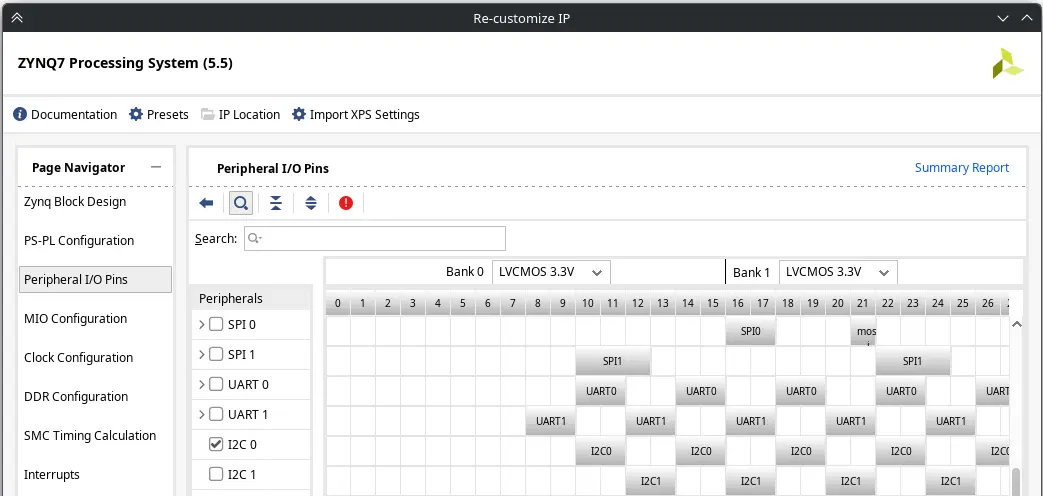
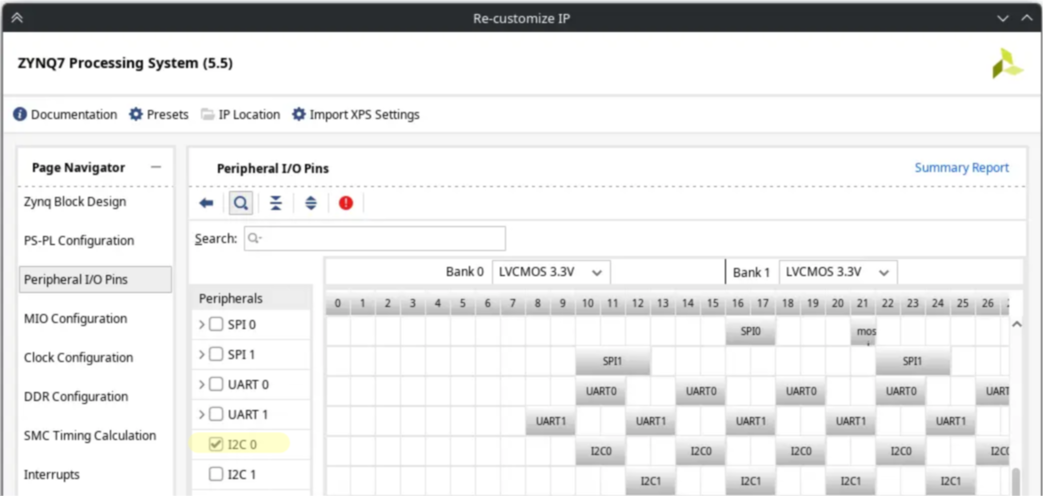
Post audio on FPGA guide

diff --git a/content/How to run audio on the Zybo Z7-20.md b/content/How to run audio on the Zybo Z7-20.md
@@ -1,31 +1,35 @@
 ---
-draft: "true"
+tags:
+  - hardware
+  - fpga
+  - audio
 ---
-A guide for anyone who would like to directly access the audio signals going in and out of an FPGA (specifically, the Zybo Z7-20). In this post, I will demonstrate how one might access the audio signals received and transmitted by the Zybo by implementing a simple audio bypass. In more general terms, we will take an audio signal received via the "Line In" ports of the Zybo, and send it out through the "HPH Out" port. This implementation would be a good starting point for any audio signal processing project that you might want to implement on an FPGA.
+
+A guide for anyone who would like to directly access the audio signals going in and out of an FPGA. In this post, I will demonstrate how one might access the audio signals received and transmitted by the Zybo Z7-20 by implementing a simple audio bypass. In more general terms, we will take an audio signal, received via the "Line In" ports of the Zybo, and send it out through the "HPH Out" port. This implementation would be a good starting point for any audio signal processing project that you might want to implement on an FPGA.
 
 (add diagram of bypass, and where audio processing would sit.)
 
 # Related works
-There was once a [blog post](https://setoti-hatenablog-com/entry/zybo_synthesizer_2_Audio_Codec) that explained how to access the audio signals in a manner similar to what I will describe in this post. Unfortuntately, it has since been taken down, and I can no longer find it on any internet archives. 
+There was once a [blog post](https://setoti-hatenablog-com/entry/zybo_synthesizer_2_Audio_Codec) that explained how to access the audio signals in a manner similar to what I describe in this post. Unfortuntately, it has since been taken down, and I can no longer find it on any internet archives. 
 
 More recently, Johan Steenkamp wrote a post on [Creating Sound on the Zybo board](https://c64onfpga.blogspot.com/2019/02/creating-sound-on-zybo-board.html). His approach avoids the use of any high-level C driver wrappers for the audio codec initialisation. It represents a more low-level approach to the one I will be using here. Given that I'm only using these wrappers to initialise the audio codec, I believe the overheads incurred are acceptable for the gains in simplicity and stability.
 
 If you'd simply like to get an audio signal processing program running on an FPGA without having to delve into hardware description language (HDL) details, the [SyFaLa](https://inria-emeraude.github.io/syfala/) project is an excellent tool that automatically compiles [Faust](https://faust.grame.fr/) programs for FPGA platforms.
 # Overview of running audio on the Zybo
 There are three major steps in accessing the audio signal streams on the Zybo Z7-20 (Zybo, for short):
-1. Configuring the audio codec
-2. Serialising the audio RX/TX streams
-3. Generating a block diagram
-4. Programming your Zybo with Vitis
+1. Configure the audio codec
+2. Serialise audio RX/TX streams
+3. Generate block diagram
+4. Program your Zybo with Vitis
 I will go through each of these steps and, at the end, you should have a working audio bypass on your Zybo!
 
-# Configuring the audio codec
+# Configure the audio codec
 Audio signals are received and transmitted through the audio codec of the FPGA. The audio codec used on the Zybo Z7-20 is the Analog Devices SSM2603. [Here is its data sheet](https://www.analog.com/media/en/technical-documentation/data-sheets/SSM2603.pdf), which includes many useful details on the capabilities of the audio codec.
 
 What we're interested in for this post is the Register Map on page 19.
 ![[ssm2603_register_map.webp]]The bits written to these registers allow us to configure the behaviour of the SSM2603. The details of each of these settings are included in the datasheet (pages 20-29).
 
-Here is the relevant code snippet that sets the register values for our audio codec configuration:
+The code below sets the register values for our audio codec configuration. We will only be using it in the final step, where we configure the Zybo using Vitis. Nonetheless, it is clearer to explain the audio codec configuration earlier.
 `int SSMSetConfig()
 {
     int Status;
@@ -71,35 +75,41 @@ I will now briefly explain the configuration set by these register values below.
 We start by resetting all register values to their default settings. This behaviour is achieved by triggering a software reset (setting R15 to all 0s).
 
 ## Activating the digital core
-From the instructions on page 11 of the data sheet, when activating the digital core of the audio codec, we need to insert a delay between activating the desired power-on blocks from R6 and activating the digital core (R9, D0). The data sheet provides us with a formula on page 11 to approximate the necessary delay time (in $\mu s$): $$t = C * 25000/3.5$$Given a capacitor value of $10.1\mu F$, we get: $$t = 4.7 * 25000 / 3.5 \approx 72143\mu s$$We round this up to $75000\mu s$.
+From the instructions on page 11 of the [SSM2603 data sheet](https://www.analog.com/media/en/technical-documentation/data-sheets/SSM2603.pdf), when activating the digital core of the audio codec, we need to insert a delay between activating the desired power-on blocks from R6 and activating the digital core (R9, D0). Page 11 also provides us with a formula to approximate the necessary delay time (in $\mu s$): $$t = C * 25000/3.5$$Given a capacitor value of $10.1\mu F$, we get: $$t = 10.1 * 25000 / 3.5 \approx 72143\mu s$$For simplicity, we round this up to $75000\mu s$.
 
 ## Set Input/Output volume
 Registers 0 to 3 allow us to set the volume of the input and output channels. These have been set to 0 dB and -26dB respectively. We set a lower volume on the outputs than the default just to be safe---the last thing we want is to accidentally damage our speakers/headphones.
 
 ## Enable DAC
-We enable the DAC in Registers 4 and 5, which allow us to write audio data from the Zynq processor to the audio output jacks.
+We enable the DAC in Registers 4 and 5, allowing us to write audio data from the Zynq processor to the audio output jacks.
 
 ## Configure word length and sampling rate
 Register 7 allows us to set the word length of each sample. We leave it at the default of 24 bits. In Register 8, we set our sampling rate to 48kHz.
 
-# Serialising the audio RX/TX streams
-Audio data is transmitted to and from the Zynq SoC on the Zybo via the I2S port. Reading from and writing to the audio codec therefore requires a means of accessing the audio data from the I2S ports. Thankfully, Scott_1767 has written an [I2S transceiver](https://forum.digikey.com/t/i2s-transceiver-vhdl/12845) that helps us to achieve this goal. If you're interested in how the transceiver functions, their documentation includes details of how it serialises/deserialises the data streams and the clocks used to drive the circuit.
+# Serialise audio RX/TX streams
+Audio data is transmitted to and from the Zynq SoC on the Zybo via the I2S port. Reading from and writing to the audio codec therefore requires a means of accessing the audio data from the I2S ports. Thankfully, an I2S transceiver that helps us to achieve this goal already exists. 
 
+The I2S transceiver performs the following functions:
+1. Deserialise received (RX) input audio from the audio codec
+2. Serialise output audio to be transmitted (TX) to the audio codec
+3. Generate clock signals for the audio codec
+![[i2s_transceiver_diagram.webp]]
+The diagram provided in the [I2S transceiver documentation](https://forum.digikey.com/t/i2s-transceiver-vhdl/12845) situates it in an implementation. The deserialised RX data are exposed via the l/r_data_rx ports. Conversely, data that you wish to serialise for the audio output should be written to the l/r_data_tx ports.
+
+If you're interested in how the transceiver functions, their documentation also includes details of how it serialises/deserialises the data streams and the clocks used to drive the circuit.
 ## Generating clock signals for the audio codec
-The main thing we need to take away from the I2S transceiver documentation for now is how to derive the master clock frequency required by the I2S transceiver. Given that we want a sampling rate ($f_s$) of 48kHz, and the SSM2603 supports $256f_s$ and $384f_s$ based clocks in normal mode (page 15 of the SSM2603 data sheet), we derive a master clock frequency of $256*f_s = 256*48kHz = 12.288MHz$.
+ Given that we want a sampling rate ($f_s$) of 48kHz, and that the SSM2603 supports $256f_s$ and $384f_s$ based clocks in normal mode (stated on page 15 of the SSM2603 data sheet), we derive a master clock frequency of $$256*f_s = 256*48kHz = 12.288MHz$$The I2S transceiver is designed to take the same master clock signal as the one sent to the audio codec. This is stated in its documentation and is also implied in the diagram above.
 
-![[samplerate_lookup_table.webp]]
-Caption: Page 25 of the SSM2603 data sheet also provides a handy lookup table to determine the master clock frequency given the sampling rate configuration of the audio codec.
+![[samplerate_lookup_table.webp|Lookup table for master clock frequencies included in SSM2603 data sheet]]
+Page 25 of the SSM2603 data sheet also provides a handy lookup table to determine the master clock frequency given the sampling rate configuration of the audio codec.
 
 The I2S transceiver takes the master clock signal and generates a serial clock (also known as a bit clock) and a word-select clock (also known as a left-right clock). These are sent to the audio codec, namely the digital audio bit clock (BCLK), DAC sampling rate clock (PBLRC), and the ADC sampling rate clock (RECLRC).
 
 ## Receiving and transmitting audio data
-The I2S transceiver receives a serialised audio input signal at the sd_rx port, deserialises the data and exposes the audio input samples via the l_data_rx and r_data_rx ports. We can process these samples and then write them to the l_data_tx and r_data_rx ports. The I2S transceiver will then serialise the samples and send them to the audio codec via the sd_tx port.
-
-(insert I2S transceiver block diagram)
+The I2S transceiver receives a serialised audio input signal at the sd_rx port, deserialises the data and exposes the audio input samples via the l/r_data_rx ports. For audio processing, you would perform some signal processing on these samples before writing them to the l/r_data_tx ports. The I2S transceiver will then serialise the samples and send them to the audio codec via the sd_tx port.
 
 For the purpose of an audio bypass, all we need to do is to connect the l/r_data_rx ports to the corresponding l/r_data_tx ports. This brings us to the next step, which is generating a block diagram.
-# Generating a block design
+# Generate block design
 We need to connect the I2S transceiver to the audio input and output pins of the Zybo. To do this, we use 3 IP blocks:
 1. Clocking Wizard
 2. I2S Transceiver
@@ -110,15 +120,14 @@ The next subsections detail a step-by-step process of the block design generatio
 ## Instantiate IP blocks
 Generate a new block design by clicking on "Generate Block Design" in the Flow Navigator. From here, we can add the IP blocks necessary for our design.
 
-Start by adding the Zynq7 Processing System IP by clicking on the "+" icon in the block design page. Search for "ZYNQ7 Processing System". Do the same for the Clocking Wizard IP. Finally, if you haven't already done so, add the I2S transceiver as a design source and drag it into the block design to add it as a design source.
+Start by adding the Zynq7 Processing System IP by clicking on the "+" icon in the block design page. Search for "ZYNQ7 Processing System". Do the same for the Clocking Wizard IP. Finally, if you haven't already done so, add the I2S transceiver as a design source and drag it into the block design.
 ![[add_ip.webp|315]]
-![[config_zynq7.webp|610]]
 ### Zynq7 Processing System
 Double click on the Zynq7 Processing System IP to customize it. Under the "Peripheral I/O Pins" tab, select the "I2C 0" peripheral.
 ![[config_zynq7.webp]]
 Next, right-click on the output ports for DDR, FIXED_IO, and IIC_0 and select "Make External" from the drop-down menu. Rename the external port of IIC_0 to "iic".
 ![[make_ext_i2c.webp]]
-Connect the "FCLK_RESET0_N" output port of the Zynq7 to the "reset_n" input pin of the I2S transceiver.
+Finally, connect the "FCLK_RESET0_N" output port of the Zynq7 to the "reset_n" input pin of the I2S transceiver.
 ### Clocking Wizard
 For the clocking wizard, set a single output clock with a frequency of 12.288MHz. This will act as the master clock signal for the I2S transceiver and the audio codec.
 ![[config_clk_wiz.webp]]
@@ -182,7 +191,7 @@ Now, we simply connect all the remaining ports. For clarity, I've added a table 
 | sd_tx         | I2S Transceiver  | ac_pbdat         | External port         |
 | l_data_rx     | I2S Transceiver  | l_data_tx        | I2S Transceiver       |
 | r_data_rx     | I2S Transceiver  | r_data_tx        | I2S Transceiver       |
-At this point, you should have the same block design as the one shown at the beginning of the subsection "Generating a block design". Save your block design, right-click on the block design file, and select "Create HDL Wrapper...". For some reason, Vivado will not list the wrapper in my Design Sources if I select the default "Let Vivado manage wrapper and auto-update". Therefore, in the pop-up window, select "Copy generated wrapper to allow user edits". Finally, set the wrapper as the top-component by selecting "Set as top" in the drop-down menu.
+At this point, you should have the same block design as the one shown at the beginning of the subsection "Generate block design". Save your block design, right-click on the block design file, and select "Create HDL Wrapper...". For some reason, Vivado will not list the wrapper in Design Sources if the default "Let Vivado manage wrapper and auto-update" is selected. Therefore, in the pop-up window, select "Copy generated wrapper to allow user edits". Finally, set the wrapper as the top-component by selecting "Set as top" in the drop-down menu.
 
 ![[create_wrapper.webp]]![[set_as_top.webp]]
 ## Generate hardware platform
@@ -193,7 +202,7 @@ Once it is done, select File > Export > Export Hardware... to open the export ha
 ![[include_bitstream.webp]]
 ![[export_hardware_location.webp]]
 Be sure to select "Include bitstream", then save it in a location of your choice. The XSA file exported will be used as the hardware specification for the Vitis project. This brings us to the final step. 
-# Programming your Zybo with Vitis
+# Program your Zybo with Vitis
 ## Create a Vitis project
 To initialize the audio codec, we need to create a Vitis project. This can be done in Vivado by clicking on Tools > Launch Vitis IDE. You'll be prompted to "Select a directory as a workspace". I like to set it within the same directory as the Vivado project I'm working on.
 ![[vitis_workspace_select.webp]]
@@ -218,46 +227,5 @@ Build the application project. After the build process has completed, you can pl
 Now, finally, run the application project.
 ![[programming_fpga_progress.webp]]
 
-Once that is done, you can test if it is working. Plug in your source audio into the port labelled "Line In", and your headphones into the port labelled "HPH Out". Turn off the mute switch (SW0); the corresponding LED should turn on as well, and you should now hear audio running through your Zybo!
-
-
-
-Steps:
-- ~~Expose DDR, FIXED_IO, I2C ports on Zynq PS~~
-- ~~Configure clocking wizard~~
-    - ~~12.288 for I2S transceiver mclk and ac_mclk~~
-    - ~~24.576 for ac_mclk~~
-- ~~Initialize ports in constraints file~~
-- ~~Connect components (include screenshot) - show how to make ports external~~
-- ~~Right-clock block design and select "Create HDL Wrapper" (select "let user", for some reason I can't set it to the top component when I let vivado control updates)~~
-- ~~Set wrapper as top component~~
-- ~~Run synthesis and implementation and generate bitstream~~
-- ~~Export hardware platform (File > Export > Export hardware)~~
-- ~~Launch Vitis~~
-- ~~Create Platform Project~~
-    - ~~Create a new platform from hardware (XSA)~~
-    - ~~Under Hardware Specification, select the exported hardware platform~~
-- ~~Create New Application Project (in platform project)~~
-    - ~~Select platform you just created~~
-    - ~~Select standalone_domain~~
-    - ~~Select Empty C/C++ project~~
-- ~~Under application project, make a new C file to write your audio codec initialization in~~
-    - ~~audio_init_system > audio_init > src > ac_init.c~~
-## Clocking Wizard configuration
-We need two clock signals to drive the audio system. One at 12.288 MHz, and the other at 24.576MHz. From the documentation of the I2S transceiver,
-
-We also need to connect it to a Zynq PS block so that we can configure and initialise the audio codec later.
-
-## Enable I2C communication through Processing System
-The processing system is what initializes the audio codec on the Zybo. We enable the I2C interface on the Zynq processing system in order to communicate with the audio codec.
-
-
-## Processor system reset configuration
-Has input ports for "slowest_sync_clk" and "dcm_locked".
-The slowest synchronous clock input should be connected to the slowest synchronous clock used.
-DCM stands for Digital Clock Manager, and the DCM lock input port is meant to be connected to the DCM that will be locked last in the system. If there aren't any DCMs in the system, the input should be set to high.
-The reset signal was taken from the Zynq processing system (via the "ext_reset_in" port).
-
-According to Xilinx's documentation, the signal generated by the peripheral pin is meant for "all peripherals attached to interconnect that is synchronous with the "slowest_sync_clk".
-
-
+The "DONE" LED should turn on, indicating that the board has been successfully programmed. Once that is done, you can test if it is working. Plug in your source audio into the port labelled "Line In", and your headphones/speakeres into the port labelled "HPH Out". Turn off the mute switch (SW0); the corresponding LED should turn on as well, and you should now hear audio running through your Zybo!
+![[zybo.webp]]

diff --git a/content/index.md b/content/index.md
@@ -1,5 +1,12 @@
 ---
-title: Welcome to Quartz
+title: Welcome to My Garden
+description: Logs of my projects, builds, and research.
 ---
+Welcome to my digital garden. This is a repository where I log my active projects, builds, and research.
 
-This is the landing page.
+## Active Projects
+* Rewriting audiovisual synthesizer in JUCE and OpenGL
+## Knowledge Base
+* Audio on FPGA: [[fpga]], [[audio]]
+## Recent Logs
+* [[How to run audio on the Zybo Z7-20]]
